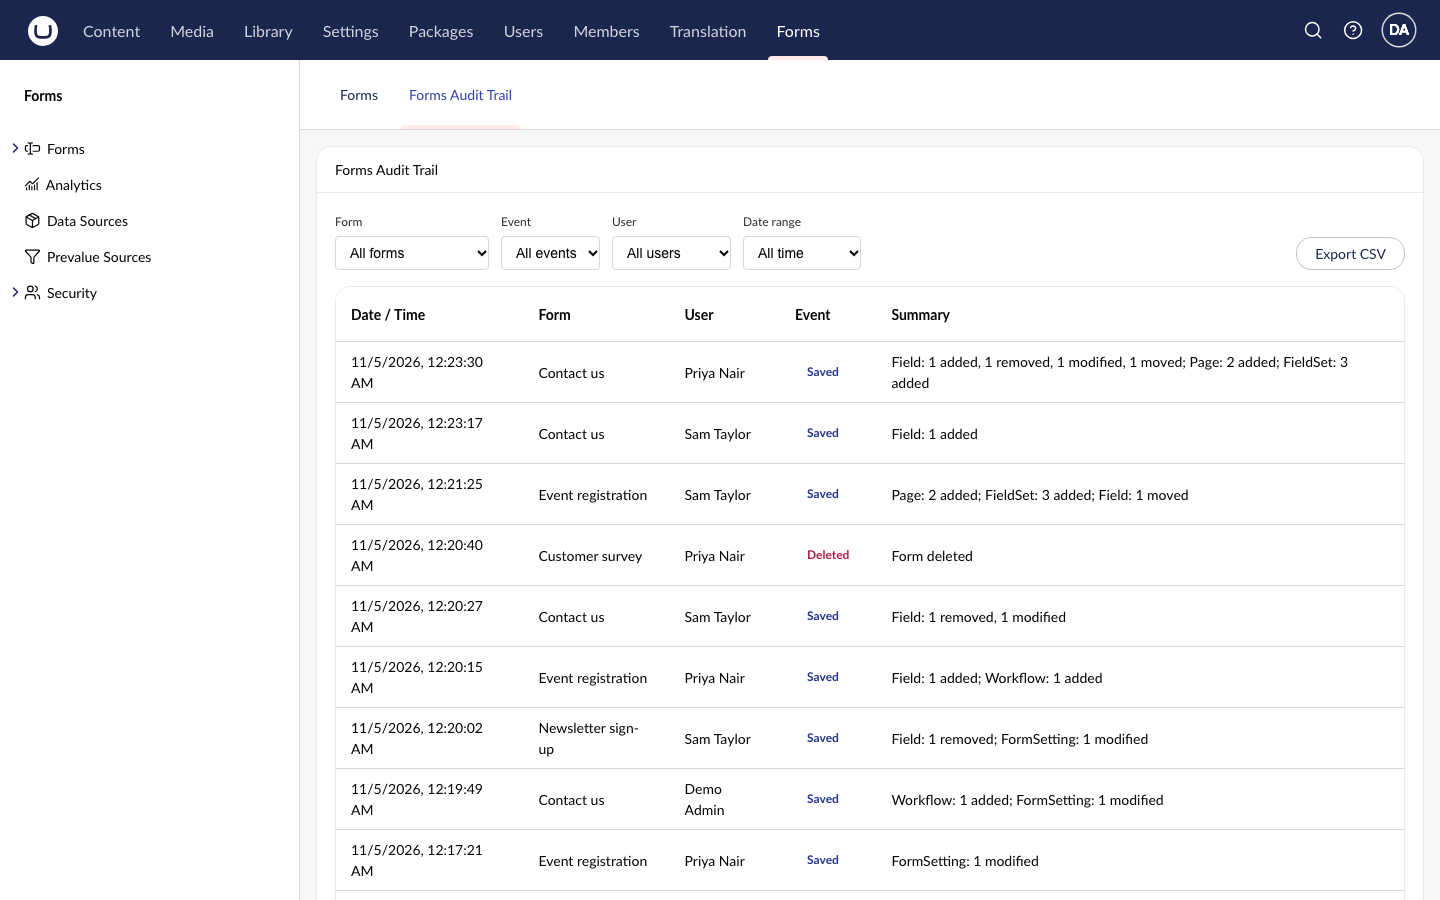
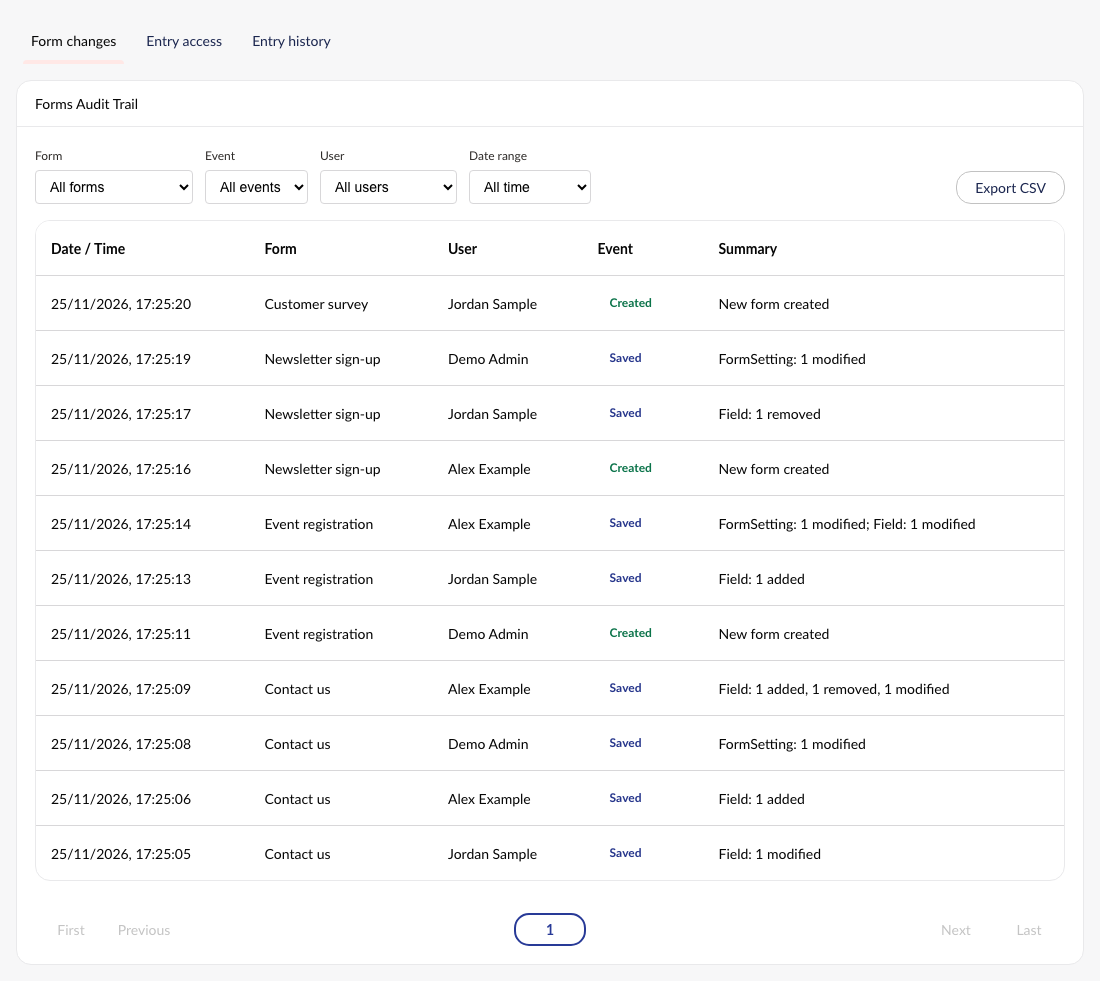
docs: retake screenshots (#45)

diff --git a/README.md b/README.md
@@ -15,7 +15,7 @@ This package keeps two records in one backoffice dashboard.
 
 Both are view-only. The package never changes, blocks or rolls back anything in Forms, unless you switch on `FailClosedOnExport`, which can refuse an export (see [Configuration](#configuration)).
 
-![Forms Audit Trail dashboard in the Forms section, listing design changes across all forms with filters and an Export CSV button](https://raw.githubusercontent.com/PascalA94/Umbraco.Community.FormsAuditTrail/main/assets/screenshots/screenshot-01-audit-trail.png)
+![Entry access tab listing who viewed a list, opened an entry, edited an entry, exported entries and opened an uploaded file](https://raw.githubusercontent.com/PascalA94/Umbraco.Community.FormsAuditTrail/main/assets/screenshots/screenshot-04-entry-access.png)
 
 ### What is recorded
 
@@ -42,6 +42,28 @@ Every row holds the time, the backoffice user (name and key), the form and, wher
 - Edit values in the access-log CSV. They stay in the backoffice.
 
 The full list of what the audit does not see is under [What is not captured](#what-is-not-captured).
+
+## Screenshots
+
+**Entry access.** Who viewed a list, opened an entry, edited one, exported entries and opened an uploaded file. The names and entries are demo data.
+
+![Entry access tab with rows for a list view, opened entries, two edits with a View changes button, an export, its download and an uploaded file](https://raw.githubusercontent.com/PascalA94/Umbraco.Community.FormsAuditTrail/main/assets/screenshots/screenshot-04-entry-access.png)
+
+**Entry history.** Everything that has happened to one entry, newest first.
+
+![Entry history tab showing the views, an edit and the exports that touched one entry](https://raw.githubusercontent.com/PascalA94/Umbraco.Community.FormsAuditTrail/main/assets/screenshots/screenshot-05-entry-history.png)
+
+**Form changes.** Design changes across every form, with filters and CSV export.
+
+![Form changes tab listing design changes across all forms, with the Form, Event, User and Date range filters and an Export CSV button](https://raw.githubusercontent.com/PascalA94/Umbraco.Community.FormsAuditTrail/main/assets/screenshots/screenshot-01-audit-trail.png)
+
+**One change opened.** The field-level diff: what was removed, added and renamed.
+
+![Change detail for one save of the Contact us form, showing a removed field, an added field and a renamed field](https://raw.githubusercontent.com/PascalA94/Umbraco.Community.FormsAuditTrail/main/assets/screenshots/screenshot-02-change-details.png)
+
+**Filtered to one form.** The Contact us form's history, filtered with the Form drop-down.
+
+![Form changes tab filtered to the Contact us form, showing its four saves](https://raw.githubusercontent.com/PascalA94/Umbraco.Community.FormsAuditTrail/main/assets/screenshots/screenshot-03-filters.png)
 
 ## Compared with Forms' built-in history
 

diff --git a/COMMITS-TODO.md b/COMMITS-TODO.md
@@ -151,3 +151,14 @@ Only if you want finer history inside M1 and M2. Parents follow the order shown,
 2. Push the branch and open the PR (you, not the agents).
 3. Run `release-checks.yml` on the branch, then on `main` after the merge, on the merged commit.
 4. Do not merge `main` into `v17`.
+
+## Milestone commit: retake screenshots
+
+Branch `docs/screenshots-refresh`. Run these yourself:
+
+1. `git status`: only `assets/screenshots`, `README.md`, `umbraco-marketplace.json` and this file changed; no secrets, no `.env`, no local settings.
+2. `git add -A`
+3. `git commit -m "docs: retake screenshots"`
+4. `git log -1`
+
+Then push, open the PR and merge. NuGet picks up the README and marketplace change on the next release.
